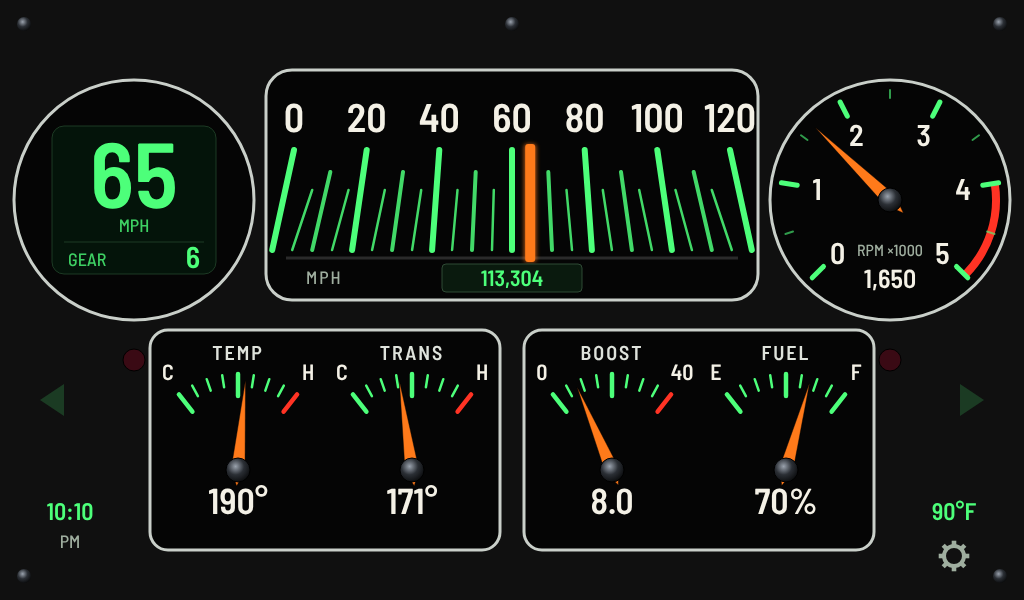
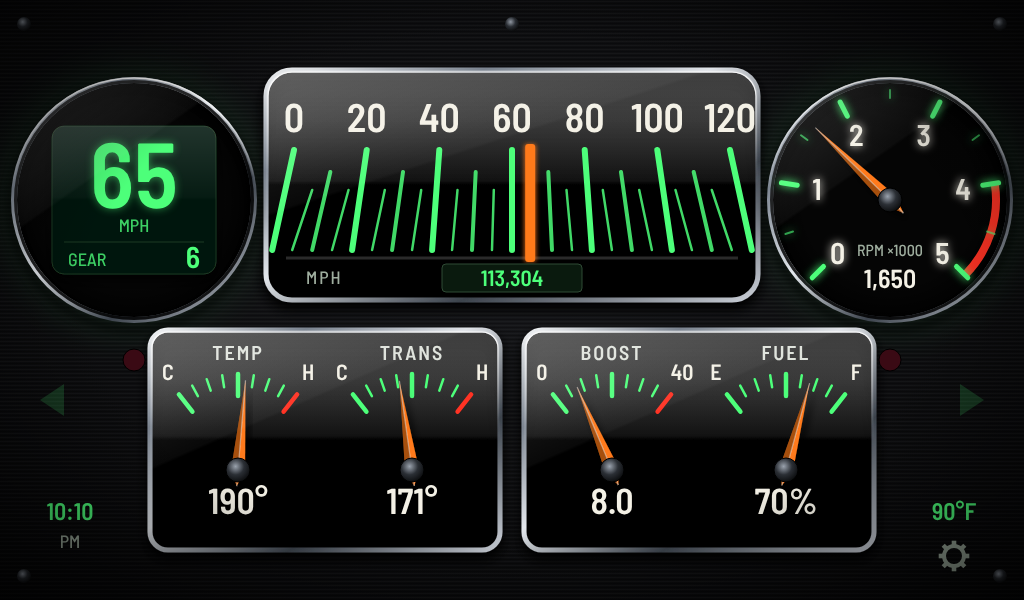
Mockups v2: lighting and depth pass (bloom, bevels, glass, needle shadows, materials)
Claude-Session: https://claude.ai/code/session_01NB1fkpFcGY28RY4JZ8NWPC

diff --git a/docs/mockups/v2.html b/docs/mockups/v2.html
@@ -19,25 +19,41 @@ const PAL={premium:{bg0:'#0c1624',bg1:'#03060b',text:'#eef3f8',dim:'#8796a8',fai
 const C=PAL[TH];
 const rad=d=>d*Math.PI/180,P=(cx,cy,r,a)=>[cx+r*Math.cos(rad(a)),cy+r*Math.sin(rad(a))],n1=v=>(+v).toFixed(1);
 const arc=(cx,cy,r,a,b)=>{const[x0,y0]=P(cx,cy,r,a),[x1,y1]=P(cx,cy,r,b);return `M${n1(x0)},${n1(y0)} A${r},${r} 0 ${Math.abs(b-a)>180?1:0} ${b>a?1:0} ${n1(x1)},${n1(y1)}`};
-const T=(x,y,s,t,o={})=>`<text x="${n1(x)}" y="${n1(y)}" font-family="${o.f||'B6'}" font-size="${s}" fill="${o.c||C.text}" text-anchor="${o.a||'middle'}"${o.ls?` letter-spacing="${o.ls}"`:''}${o.op?` opacity="${o.op}"`:''}${o.db?` dominant-baseline="${o.db}"`:''}>${t}</text>`;
+const T=(x,y,s,t,o={})=>(s>=54&&!o.nb?Tx(x,y,s,t,{...o,blur:1}):'')+Tx(x,y,s,t,o);
+const Tx=(x,y,s,t,o={})=>`<text${o.blur?' filter="url(#bloom)" opacity=".5"':''} x="${n1(x)}" y="${n1(y)}" font-family="${o.f||'B6'}" font-size="${s}" fill="${o.c||C.text}" text-anchor="${o.a||'middle'}"${o.ls?` letter-spacing="${o.ls}"`:''}${o.op&&!o.blur?` opacity="${o.op}"`:''}${o.db?` dominant-baseline="${o.db}"`:''}>${t}</text>`;
 const fmt=n=>n.toLocaleString('en-US');
 let s='';
 // ---------- shared defs
 s+=`<defs>
 <radialGradient id="bg" cx="50%" cy="45%" r="75%"><stop offset="0" stop-color="${C.bg0}"/><stop offset="1" stop-color="${C.bg1}"/></radialGradient>
-<radialGradient id="face" cx="50%" cy="38%" r="65%"><stop offset="0" stop-color="${TH=='premium'?'#101c2c':'#16161a'}"/><stop offset="1" stop-color="${TH=='premium'?'#04070c':'#030304'}"/></radialGradient>
+<radialGradient id="face" cx="50%" cy="30%" r="70%"><stop offset="0" stop-color="${TH=='premium'?'#101c2c':'#16161a'}"/><stop offset="1" stop-color="${TH=='premium'?'#04070c':'#030304'}"/></radialGradient>
 <linearGradient id="chrome" x1="0" y1="0" x2="1" y2="1"><stop offset="0" stop-color="#f7f9fb"/><stop offset=".22" stop-color="#7d8692"/><stop offset=".45" stop-color="#e3e7ec"/><stop offset=".7" stop-color="#3c434c"/><stop offset="1" stop-color="#c9ced6"/></linearGradient>
 <linearGradient id="chromeV" x1="0" y1="0" x2="0" y2="1"><stop offset="0" stop-color="#eef1f4"/><stop offset=".5" stop-color="#5b636e"/><stop offset="1" stop-color="#c4c9d0"/></linearGradient>
 <linearGradient id="blue" x1="0" y1="0" x2="1" y2="0"><stop offset="0" stop-color="${C.acc2}"/><stop offset="1" stop-color="${C.acc}"/></linearGradient>
 <linearGradient id="blueV" x1="0" y1="1" x2="0" y2="0"><stop offset="0" stop-color="${C.acc2}"/><stop offset="1" stop-color="${C.acc}"/></linearGradient>
 <linearGradient id="card" x1="0" y1="0" x2="0" y2="1"><stop offset="0" stop-color="#16263a" stop-opacity=".9"/><stop offset="1" stop-color="#070c14" stop-opacity=".95"/></linearGradient>
 <radialGradient id="redglow" cx="50%" cy="50%" r="50%"><stop offset=".6" stop-color="${C.red}" stop-opacity="0"/><stop offset="1" stop-color="${C.red}" stop-opacity=".75"/></radialGradient>
+<filter id="bloom" x="-30%" y="-30%" width="160%" height="160%"><feGaussianBlur stdDeviation="4"/></filter>
+<filter id="bloomBig" x="-60%" y="-60%" width="220%" height="220%"><feGaussianBlur stdDeviation="18"/></filter>
+<filter id="dshadow" x="-20%" y="-20%" width="140%" height="160%"><feDropShadow dx="0" dy="7" stdDeviation="7" flood-color="#000" flood-opacity=".75"/></filter>
+<filter id="nshadow" x="-50%" y="-50%" width="200%" height="200%"><feDropShadow dx="5" dy="7" stdDeviation="3.5" flood-color="#000" flood-opacity=".7"/></filter>
+<radialGradient id="vign" cx="50%" cy="48%" r="75%"><stop offset=".55" stop-color="#000" stop-opacity="0"/><stop offset="1" stop-color="#000" stop-opacity=".75"/></radialGradient>
+<linearGradient id="glassG" x1="0" y1="0" x2=".7" y2="1"><stop offset="0" stop-color="#fff" stop-opacity=".17"/><stop offset=".42" stop-color="#fff" stop-opacity=".035"/><stop offset=".43" stop-color="#fff" stop-opacity="0"/><stop offset="1" stop-color="#fff" stop-opacity="0"/></linearGradient>
+<radialGradient id="faceIn" cx="50%" cy="50%" r="50%"><stop offset=".72" stop-color="#000" stop-opacity="0"/><stop offset="1" stop-color="#000" stop-opacity=".9"/></radialGradient>
+<linearGradient id="bevelHi" x1="0" y1="0" x2="0" y2="1"><stop offset="0" stop-color="#fff" stop-opacity=".95"/><stop offset=".45" stop-color="#fff" stop-opacity="0"/></linearGradient>
+<linearGradient id="gloss" x1="0" y1="0" x2="0" y2="1"><stop offset="0" stop-color="#fff" stop-opacity=".13"/><stop offset=".48" stop-color="#fff" stop-opacity=".025"/><stop offset=".5" stop-color="#fff" stop-opacity="0"/></linearGradient>
+<linearGradient id="recess" x1="0" y1="0" x2="0" y2="1"><stop offset="0" stop-color="#000" stop-opacity=".85"/><stop offset=".22" stop-color="#000" stop-opacity="0"/></linearGradient>
+<pattern id="brushed" width="600" height="4" patternUnits="userSpaceOnUse"><rect y="1" width="600" height="1" fill="#fff" fill-opacity=".028"/><rect y="3" width="600" height="1" fill="#000" fill-opacity=".25"/></pattern>
+<linearGradient id="cw1" x1="0" y1="0" x2="1" y2="0"><stop offset="0" stop-color="#0b0d11"/><stop offset=".5" stop-color="#262c36"/><stop offset="1" stop-color="#0b0d11"/></linearGradient>
+<linearGradient id="cw2" x1="0" y1="0" x2="0" y2="1"><stop offset="0" stop-color="#090b0e"/><stop offset=".5" stop-color="#1c2129"/><stop offset="1" stop-color="#090b0e"/></linearGradient>
+<linearGradient id="sheen" x1="0" y1="0" x2="1" y2="1"><stop offset=".2" stop-color="#bfe6ff" stop-opacity="0"/><stop offset=".5" stop-color="#bfe6ff" stop-opacity=".10"/><stop offset=".8" stop-color="#bfe6ff" stop-opacity="0"/></linearGradient>
 <filter id="glow" x="-50%" y="-50%" width="200%" height="200%"><feGaussianBlur stdDeviation="5"/></filter>
 <filter id="glow2" x="-50%" y="-50%" width="200%" height="200%"><feGaussianBlur stdDeviation="2"/></filter>
 <radialGradient id="hub" cx="40%" cy="35%" r="70%"><stop offset="0" stop-color="#9aa2ad"/><stop offset=".5" stop-color="#2b2f35"/><stop offset="1" stop-color="#08090a"/></radialGradient>
-<pattern id="carbon" width="8" height="8" patternUnits="userSpaceOnUse"><rect width="8" height="8" fill="#0b0d10"/><rect width="4" height="4" fill="#15181d"/><rect x="4" y="4" width="4" height="4" fill="#15181d"/></pattern>
+<pattern id="carbon" width="12" height="12" patternUnits="userSpaceOnUse"><rect width="12" height="12" fill="#07090c"/><rect width="6" height="6" fill="url(#cw1)"/><rect x="6" y="6" width="6" height="6" fill="url(#cw1)"/><rect x="6" width="6" height="6" fill="url(#cw2)"/><rect y="6" width="6" height="6" fill="url(#cw2)"/></pattern>
 <pattern id="paper" width="20" height="20" patternUnits="userSpaceOnUse"><rect width="20" height="20" fill="#efe6cf"/><path d="M20,0 V20 M0,20 H20" stroke="#d9a49a" stroke-width=".8"/></pattern>
-</defs><rect width="1024" height="600" fill="url(#bg)"/>`;
+</defs><rect width="1024" height="600" fill="url(#bg)"/><!--SPILL-->`;
+const GL=[],GLR=[];
 
 // ---------- helpers
 function scale(cx,cy,r,a0,sw,min,max,step,minor,o={}){let out='';const n=Math.round((max-min)/minor);
@@ -45,14 +61,20 @@ function scale(cx,cy,r,a0,sw,min,max,step,minor,o={}){let out='';const n=Math.ro
     const[x1,y1]=P(cx,cy,r,a),[x2,y2]=P(cx,cy,r-(maj?(o.ml||20):(o.nl||10)),a);
     out+=`<line x1="${n1(x1)}" y1="${n1(y1)}" x2="${n1(x2)}" y2="${n1(y2)}" stroke="${red?C.red:(maj?(o.mc||C.tick||C.text):(o.nc||(C.tick?C.tick+'99':C.dim)))}" stroke-width="${maj?(o.mw||4):(o.nw||2)}" stroke-linecap="round"/>`;
     if(maj&&o.lab!==false){const[lx,ly]=P(cx,cy,r-(o.lr||44),a);out+=T(lx,ly+(o.ly||0),o.ls||30,o.fmt?o.fmt(v):v,{c:red?C.red:(o.lc||C.text),db:'central',f:o.lf||'B5'})}}
-  return out}
+  return `<g filter="url(#bloom)">${out}</g>`+out}
 function needle(cx,cy,r0,r1,a,col,w){const[x0,y0]=P(cx,cy,r0,a),[x1,y1]=P(cx,cy,r1,a);
   return `<line x1="${n1(x0)}" y1="${n1(y0)}" x2="${n1(x1)}" y2="${n1(y1)}" stroke="${col}" stroke-width="${w*3}" stroke-linecap="round" opacity=".45" filter="url(#glow)"/>`+
-         `<line x1="${n1(x0)}" y1="${n1(y0)}" x2="${n1(x1)}" y2="${n1(y1)}" stroke="${col}" stroke-width="${w}" stroke-linecap="round"/>`}
+         `<line x1="${n1(x0)}" y1="${n1(y0)}" x2="${n1(x1)}" y2="${n1(y1)}" stroke="${col}" stroke-width="${w}" stroke-linecap="round" filter="url(#nshadow)"/>`+`<line x1="${n1(x0)}" y1="${n1(y0)}" x2="${n1(x1)}" y2="${n1(y1)}" stroke="#fff" stroke-opacity=".55" stroke-width="${w*.3}" stroke-linecap="round"/>`}
 function cneedle(cx,cy,r,a,col){const[tx,ty]=P(cx,cy,r,a),[bx1,by1]=P(cx,cy,7,a+90),[bx2,by2]=P(cx,cy,7,a-90),[tl,tly]=P(cx,cy,r*.18,a+180);
-  return `<polygon points="${n1(tx)},${n1(ty)} ${n1(bx1)},${n1(by1)} ${n1(tl)},${n1(tly)} ${n1(bx2)},${n1(by2)}" fill="${col}" stroke="#000" stroke-opacity=".4"/>`+
+  return `<g filter="url(#nshadow)"><polygon points="${n1(tx)},${n1(ty)} ${n1(bx1)},${n1(by1)} ${n1(tl)},${n1(tly)}" fill="${col}"/><polygon points="${n1(tx)},${n1(ty)} ${n1(tl)},${n1(tly)} ${n1(bx2)},${n1(by2)}" fill="${col}"/><polygon points="${n1(tx)},${n1(ty)} ${n1(tl)},${n1(tly)} ${n1(bx2)},${n1(by2)}" fill="#000" fill-opacity=".35"/><line x1="${n1(tx)}" y1="${n1(ty)}" x2="${n1(tl)}" y2="${n1(tly)}" stroke="#fff" stroke-opacity=".45" stroke-width="1.2"/></g>`+
          `<circle cx="${cx}" cy="${cy}" r="${Math.max(12,r*.11)}" fill="url(#hub)" stroke="#000"/>`}
-function ring(cx,cy,r,w){return `<circle cx="${cx}" cy="${cy}" r="${r}" fill="none" stroke="url(#chrome)" stroke-width="${w}"/><circle cx="${cx}" cy="${cy}" r="${r-w/2-1}" fill="none" stroke="#000" stroke-opacity=".7" stroke-width="2"/>`}
+function bezel(cx,cy,r,w){return `<circle cx="${cx}" cy="${cy+6}" r="${r+w/2}" fill="none" stroke="#000" stroke-width="${w}" opacity=".7" filter="url(#bloom)"/>`+
+  `<circle cx="${cx}" cy="${cy}" r="${r}" fill="none" stroke="url(#chrome)" stroke-width="${w}"/>`+
+  `<circle cx="${cx}" cy="${cy}" r="${r+w/2-1}" fill="none" stroke="url(#bevelHi)" stroke-width="1.6"/>`+
+  `<circle cx="${cx}" cy="${cy}" r="${r-w/2+1.5}" fill="none" stroke="#000" stroke-width="3" stroke-opacity=".85"/>`}
+function ring(cx,cy,r,w){GL.push([cx,cy,r-w/2]);const ri=r-w/2-5;
+  const lit=TH=='premium'?`<path d="${arc(cx,cy,ri,25,155)}" stroke="${C.acc}" stroke-width="10" fill="none" opacity=".55" filter="url(#glow)"/><path d="${arc(cx,cy,ri,35,145)}" stroke="${C.acc}" stroke-width="2.5" fill="none" opacity=".8"/>`:'';
+  return `<circle cx="${cx}" cy="${cy}" r="${r-w/2}" fill="url(#faceIn)"/>`+lit+bezel(cx,cy,r,w)}
 function statusTop(o={}){return T(24,34,26,'10:10 PM',{a:'start',f:'B6'})+T(140,34,20,'Sun Nov 8',{a:'start',c:C.dim,f:'B5'})+
   T(948,34,26,'90°F',{a:'end'})+cog(990,26)}
 function cog(x,y){let p='';for(let i=0;i<8;i++){const a=i*45;const[a1,b1]=P(x,y,13,a-10),[a2,b2]=P(x,y,13,a+10);p+=`<line x1="${n1(a1)}" y1="${n1(b1)}" x2="${n1(a2)}" y2="${n1(b2)}" stroke="${C.dim}" stroke-width="5"/>`}
@@ -198,7 +220,7 @@ pages.premium_trend=()=>{let o=statusTop();
   return o};
 
 // ================= CLASSIC =================
-function cdial(cx,cy,r,min,max,step,minor,a0,sw,val,o={}){let g=`<circle cx="${cx}" cy="${cy}" r="${r+10}" fill="url(#chrome)"/><circle cx="${cx}" cy="${cy}" r="${r+2}" fill="#000"/><circle cx="${cx}" cy="${cy}" r="${r}" fill="url(#face)"/>`;
+function cdial(cx,cy,r,min,max,step,minor,a0,sw,val,o={}){GL.push([cx,cy,r]);let g=`<circle cx="${cx}" cy="${cy}" r="${r}" fill="url(#face)"/><circle cx="${cx}" cy="${cy}" r="${r}" fill="url(#faceIn)"/>`+bezel(cx,cy,r+5,10);
   if(o.red!=null)g+=`<path d="${arc(cx,cy,r-6,a0+sw*(o.red-min)/(max-min),a0+sw)}" stroke="${C.red}" stroke-width="${o.bw||10}" fill="none"/>`;
   if(o.green)g+=`<path d="${arc(cx,cy,r-6,a0+sw*(o.green[0]-min)/(max-min),a0+sw*(o.green[1]-min)/(max-min))}" stroke="${C.green}" stroke-width="${o.bw||10}" fill="none" opacity=".8"/>`;
   g+=scale(cx,cy,r-2,a0,sw,min,max,step,minor,{ls:o.ls||Math.round(r*.17),lr:o.lr||r*.27,ml:o.ml||r*.11,nl:o.nl||r*.055,mw:o.mw||Math.max(3,r*.022),nw:Math.max(1.5,r*.01),lf:'C6',fmt:o.fmt,red:o.redLab?o.red:null});
@@ -255,7 +277,7 @@ pages.classic_trend=()=>{let o=`<rect width="1024" height="600" fill="#0d0d0f"/>
 
 
 // Premium Towing: aftermarket diesel-monitor look (carbon, segmented EGT arc, side data panels)
-pages.premium_towing=()=>{const CX=512,CY=300;let o=`<rect width="1024" height="600" fill="url(#carbon)"/>`;
+pages.premium_towing=()=>{const CX=512,CY=300;let o=`<rect width="1024" height="600" fill="url(#carbon)"/><rect width="1024" height="600" fill="url(#sheen)"/><circle cx="512" cy="300" r="300" fill="#29c4ff" opacity=".10" filter="url(#bloomBig)"/>`;GL.push([512,300,232]);
   const CY2='#29c4ff',sk=(x,y,sz,t,op={})=>`<g transform="translate(${x},${y}) skewX(-9)">`+T(0,0,sz,t,{f:'C6',...op})+`</g>`;
   // center disc
   o+=`<circle cx="${CX}" cy="${CY}" r="232" fill="#06080b" stroke="${CY2}" stroke-width="3"/><circle cx="${CX}" cy="${CY}" r="214" fill="none" stroke="#2a3340" stroke-width="2"/>`;
@@ -282,7 +304,7 @@ pages.premium_towing=()=>{const CX=512,CY=300;let o=`<rect width="1024" height="
 
 // Classic Daily: vintage pickup dash (horizontal sweep speedo, round tach, twin-gauge windows)
 pages.classic_daily=()=>{let o=`<rect width="1024" height="600" fill="#101010"/>`;
-  const G=C.green,win=(x,y,w,h,r=18)=>`<rect x="${x}" y="${y}" width="${w}" height="${h}" rx="${r}" fill="#050505" stroke="#c9cfc9" stroke-width="3"/>`;
+  const G=C.green,win=(x,y,w,h,r=18)=>{GLR.push([x,y,w,h,r]);return `<rect x="${x}" y="${y+6}" width="${w}" height="${h}" rx="${r}" fill="#000" opacity=".8" filter="url(#bloom)"/><rect x="${x}" y="${y}" width="${w}" height="${h}" rx="${r}" fill="#050505"/><rect x="${x}" y="${y}" width="${w}" height="${h}" rx="${r}" fill="url(#recess)"/><rect x="${x}" y="${y}" width="${w}" height="${h}" rx="${r}" fill="none" stroke="url(#chrome)" stroke-width="5"/><rect x="${x+2}" y="${y+2}" width="${w-4}" height="${h-4}" rx="${r-2}" fill="none" stroke="url(#bevelHi)" stroke-width="1.2"/>`};
   [[24,24],[1000,24],[24,576],[1000,576],[512,24]].forEach(([x,y])=>{o+=`<circle cx="${x}" cy="${y}" r="7" fill="url(#hub)"/>`});
   // sweep speedo
   const X0=266,X1=758,Y0=70,Y1=300,BASE=250,TOP=150,sx=v=>X0+28+(X1-X0-56)*v/120;
@@ -295,11 +317,11 @@ pages.classic_daily=()=>{let o=`<rect width="1024" height="600" fill="#101010"/>
   o+=`<rect x="${512-70}" y="${BASE+14}" width="140" height="28" rx="4" fill="#0a1a0e" stroke="#2f4a35"/>`+T(512,BASE+36,22,fmt(V.odo),{f:'C6',c:G});
   o+=T(X0+40,BASE+34,18,'MPH',{a:'start',c:C.dim,f:'C5',ls:2});
   // left round: digital LCD
-  const lx=134,ly=200,rr=120;o+=`<circle cx="${lx}" cy="${ly}" r="${rr}" fill="#050505" stroke="#c9cfc9" stroke-width="3"/>`;
+  const lx=134,ly=200,rr=120;o+=`<circle cx="${lx}" cy="${ly}" r="${rr}" fill="#050505"/><circle cx="${lx}" cy="${ly}" r="${rr}" fill="url(#faceIn)"/>`+bezel(lx,ly,rr,6);GL.push([lx,ly,rr]);
   o+=`<rect x="${lx-82}" y="${ly-74}" width="164" height="148" rx="12" fill="#04140a" stroke="#1d3a24"/>`;
   o+=T(lx,ly+8,92,V.mph,{f:'C6',c:G})+T(lx,ly+32,18,'MPH',{f:'C5',c:G,op:.8})+`<line x1="${lx-70}" y1="${ly+42}" x2="${lx+70}" y2="${ly+42}" stroke="#1d3a24"/>`+T(lx-66,ly+66,18,'GEAR',{a:'start',f:'C5',c:G,op:.8})+T(lx+66,ly+68,30,V.gear,{a:'end',f:'C6',c:G});
   // right round: analog tach
-  const rx=890;o+=`<circle cx="${rx}" cy="${ly}" r="${rr}" fill="#050505" stroke="#c9cfc9" stroke-width="3"/>`;
+  const rx=890;o+=`<circle cx="${rx}" cy="${ly}" r="${rr}" fill="#050505"/><circle cx="${rx}" cy="${ly}" r="${rr}" fill="url(#faceIn)"/>`+bezel(rx,ly,rr,6);GL.push([rx,ly,rr]);
   o+=`<path d="${arc(rx,ly,rr-14,135+270*4/5,405)}" stroke="${C.red}" stroke-width="8" fill="none"/>`;
   o+=scale(rx,ly,rr-10,135,270,0,5,1,.5,{ls:30,lr:36,ml:16,nl:8,mw:5,lf:'C6'});
   o+=T(rx,ly+56,16,'RPM ×1000',{c:C.dim,f:'C5'})+T(rx,ly+88,26,fmt(V.rpm),{f:'C6'});
@@ -319,6 +341,23 @@ pages.classic_daily=()=>{let o=`<rect width="1024" height="600" fill="#101010"/>
   o+=T(70,520,24,'10:10',{f:'C6',c:G})+T(70,548,18,'PM',{f:'C5',c:C.dim})+T(954,520,24,'90°F',{f:'C6',c:G})+cog(954,556);
   return o};
 
-s+=(pages[TH+'_'+PG]||(()=>T(512,300,40,'no page '+TH+'_'+PG)))();
+let pg=(pages[TH+'_'+PG]||(()=>T(512,300,40,'no page '+TH+'_'+PG)))();
+pg=pg.replace(/<rect (x="0" y="0" )?width="1024" height="600" fill="#(0d0d0f|101010)"\/>/g,'');
+// tube shading on thick bars
+pg=pg.replace(/<path d="([^"]+)" stroke="([^"]+)" stroke-width="(\d+)" fill="none"( opacity="[^"]*")?\/>/g,(m,d,st,w,op)=>{w=+w;if(w<14)return m;
+  const dark=/^#1/.test(st);return `<path d="${d}" stroke="#000" stroke-opacity=".6" stroke-width="${w+6}" fill="none" filter="url(#bloom)" transform="translate(0,4)"/>`+m+
+  `<path d="${d}" stroke="#fff" stroke-opacity="${dark?.05:.28}" stroke-width="${(w*.28).toFixed(1)}" fill="none"/>`});
+// panels, cards and buttons float with a shadow and a top gloss
+pg=pg.replace(/<rect x="([\d.]+)" y="([\d.]+)" width="(\d+)" height="(\d+)" rx="(\d+)" fill="([^"]+)"([^>]*)\/>/g,(m,x,y,w,h,r,f,rest)=>{if(+h<40||+w<100||/url\(#(recess|face|paper)/.test(f)||f=='#000')return m;
+  return `<rect x="${x}" y="${y}" width="${w}" height="${h}" rx="${r}" fill="${f}"${rest} filter="url(#dshadow)"/><rect x="${x}" y="${y}" width="${w}" height="${h}" rx="${r}" fill="url(#gloss)"/>`});
+pg=pg.replace(/<polygon points="([^"]+)" fill="#06080bcc"([^>]*)\/>/g,(m,pts,rest)=>`<polygon points="${pts}" fill="#06080bdd"${rest} filter="url(#dshadow)"/><polygon points="${pts}" fill="url(#gloss)"/>`);
+// light spill behind lit dials, brushed panel for Classic
+let spill=TH=='classic'?'<rect width="1024" height="600" fill="url(#brushed)"/>':'';
+GL.forEach(([cx,cy,r])=>spill+=`<circle cx="${cx}" cy="${cy}" r="${(r*1.12).toFixed(0)}" fill="${TH=='classic'?C.green:C.acc}" opacity="${TH=='classic'?.07:.12}" filter="url(#bloomBig)"/>`);
+s=s.replace('<!--SPILL-->',spill)+pg;
+// glass on every dial and window, then a vignette
+GL.forEach(([cx,cy,r])=>s+=`<circle cx="${cx}" cy="${cy}" r="${r}" fill="url(#glassG)"/>`);
+GLR.forEach(([x,y,w,h,r])=>s+=`<rect x="${x}" y="${y}" width="${w}" height="${h}" rx="${r}" fill="url(#glassG)"/>`);
+s+='<rect width="1024" height="600" fill="url(#vign)" pointer-events="none"/>';
 document.getElementById('s').innerHTML=s;
 </script></body></html>

diff --git a/docs/mockups/README.md b/docs/mockups/README.md
@@ -40,6 +40,14 @@ overview is `v2/sheet.png`.
 | Classic | Economy | big analog MPG gauge with a tank-average marker, fuel gauge, tank/trip/last-10 boxes |
 | Classic | Trend | paper strip-chart recorder with two pens |
 
+Depth pass (after JP said v1 looked flat next to the examples): lit graphics
+bloom, bezels have a bevel and drop shadow, faces sit recessed, glass glare on
+every dial and window, needles have a lit side, a shaded side and a shadow,
+bars shade like tubes, panels float with a gloss, real carbon weave and brushed
+panel, light spill around the dials, and a vignette. On the Pi, the static
+layers (bezel, face, glass) get baked once, and only needles and numbers
+animate, with Qt Quick Effects for the shadows and glow.
+
 EGT isn't used: the truck's EGT reads a fixed placeholder (deleted), so boost,
 oil and intake temperature take its place.
 
